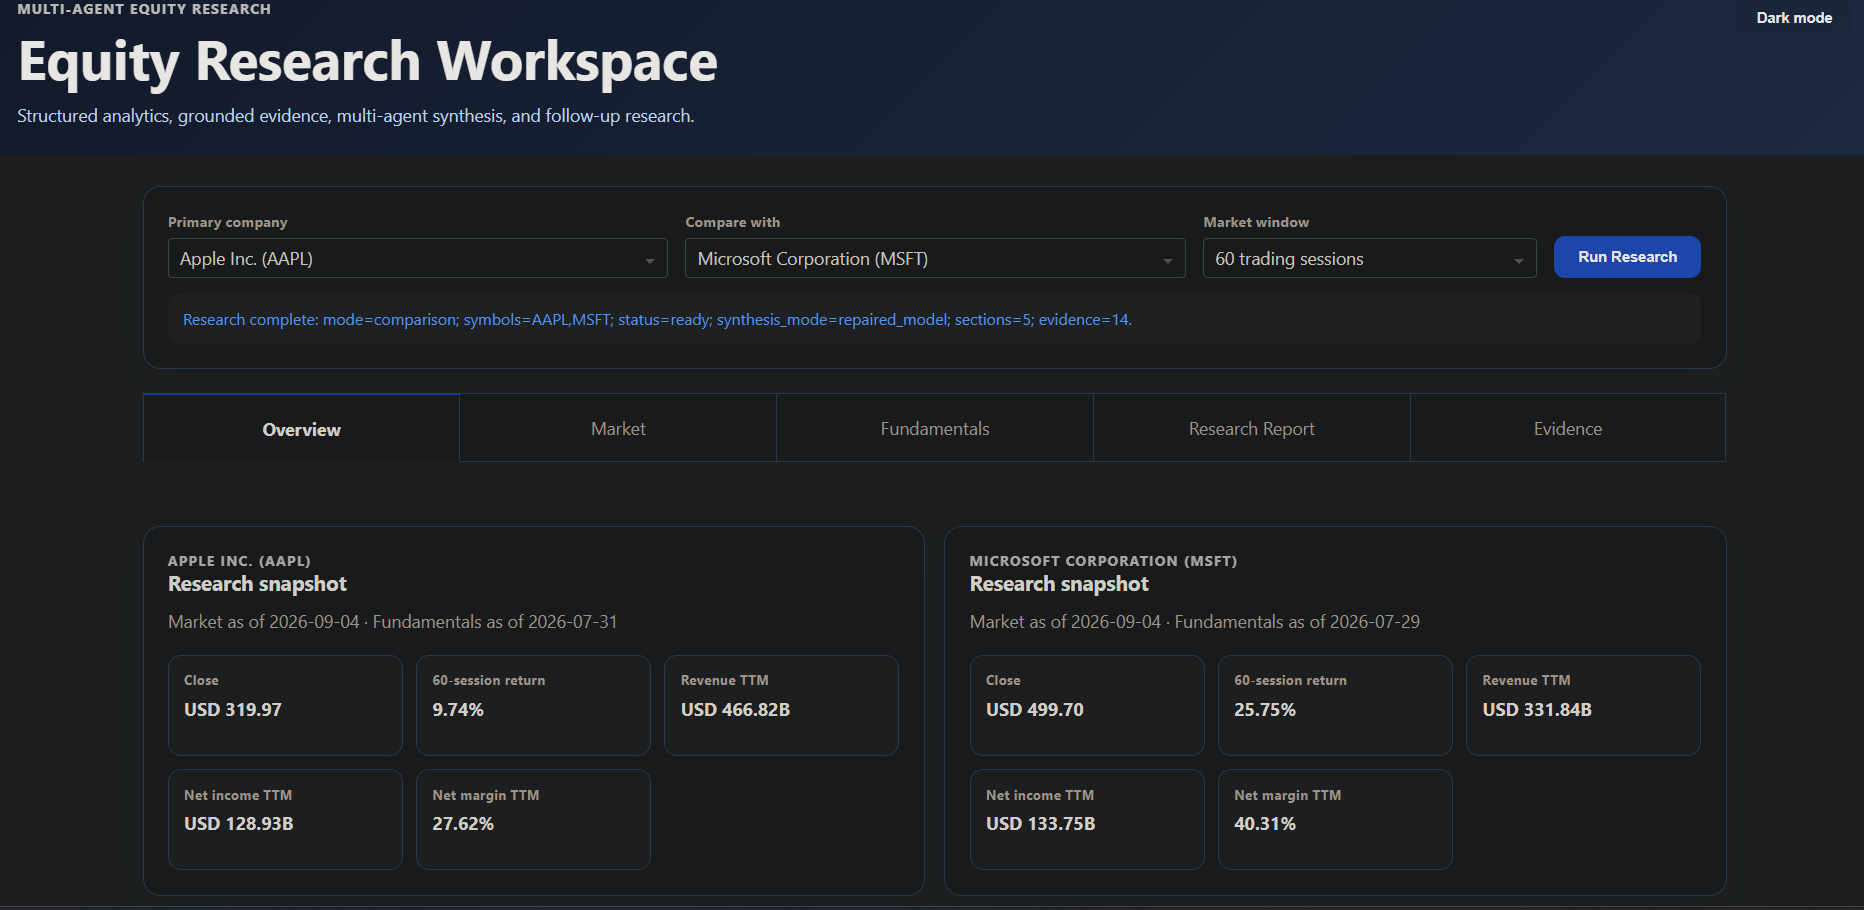
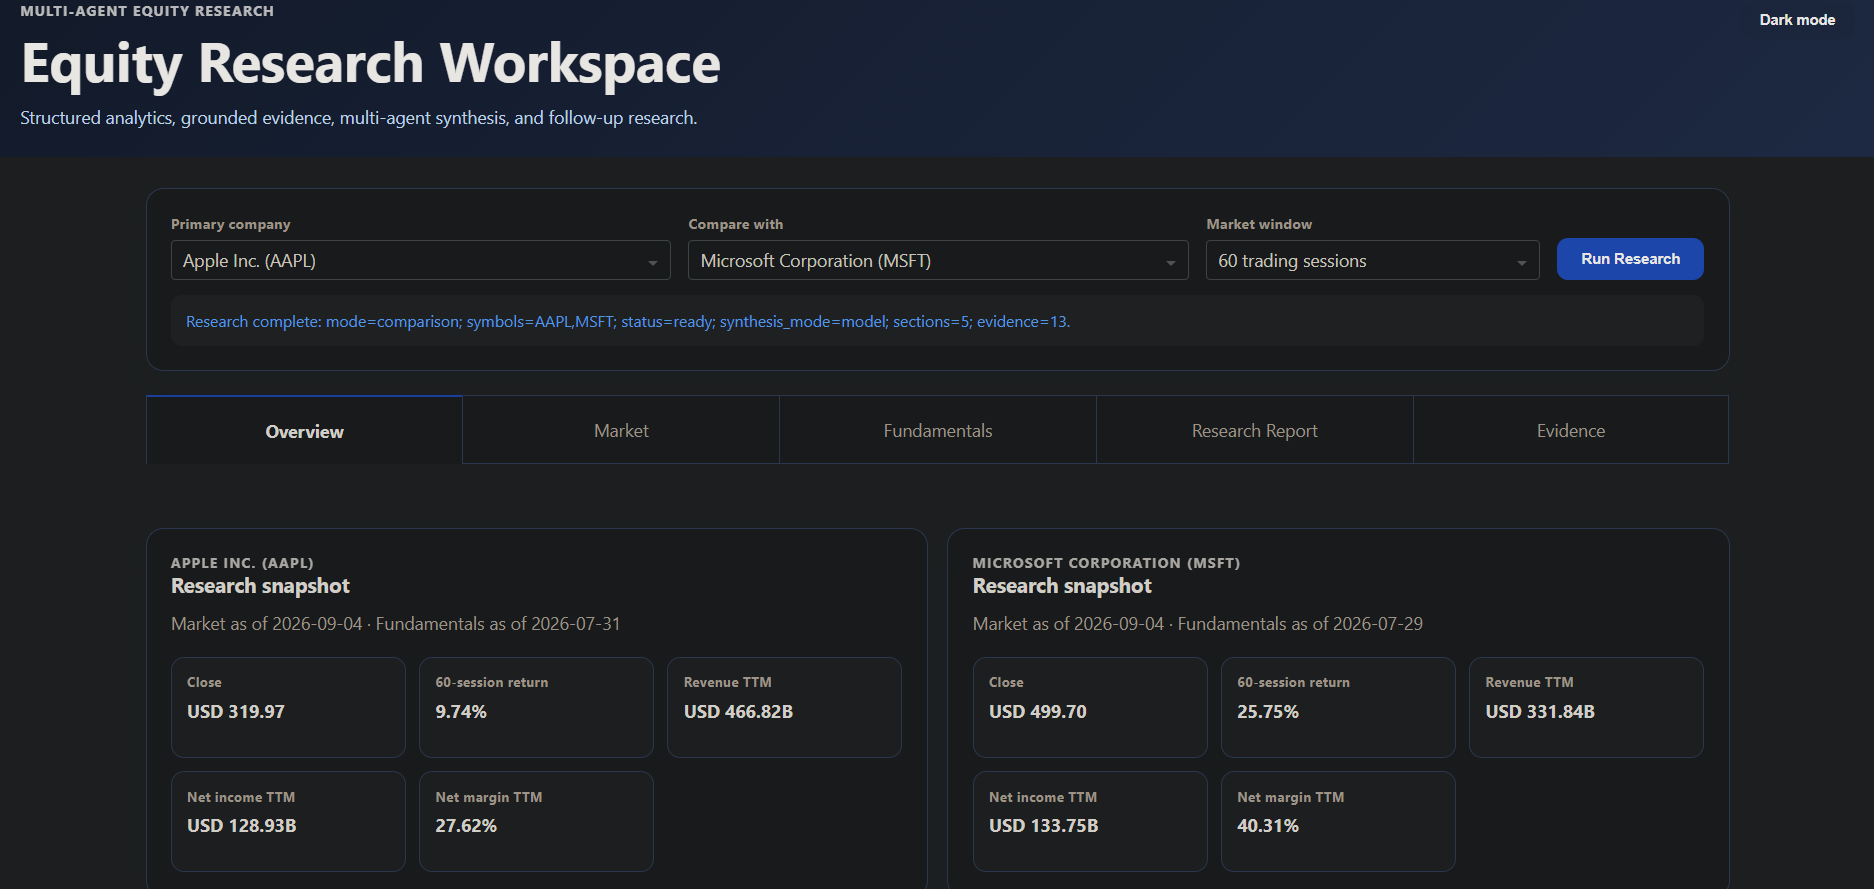
docs: refresh portfolio evidence and tracing

diff --git a/README.md b/README.md
@@ -27,22 +27,18 @@ The MVP:
 - Process data through Bronze, Silver, and Gold Delta tables.
 - Provide structured financial analytics plus Retrieval-Augmented Generation (RAG) over validated news and SEC filing evidence with citations.
 - Coordinate a Supervisor, Market Analyst, and Company Researcher with LangGraph.
-- Presents results in a private Databricks Dash workspace with normalized market charts, validated cited reports, publication-safe evidence provenance, session-bound grounded follow-up chat, and privacy-safe application telemetry.
+- Present results in a private Databricks Dash workspace with normalized market charts, validated cited reports, publication-safe evidence provenance, session-bound grounded follow-up chat, and privacy-safe application telemetry.
 
 The MVP will not include trading execution, price prediction, portfolio optimization, GDELT, cTrader, or live Alpaca MCP access.
 
 ## Current progress
 
-- **Bronze:** 4/4 MVP datasets implemented and live-verified.
-- **Silver:** 4/4 MVP datasets implemented and live-verified: `daily_prices`, `news_articles`, `company_facts`, and `filing_sections`.
-- **Gold:** 2/2 analytical metric tables implemented and live-verified: `market_metrics` and `fundamental_metrics`.
-- **Daily market/news refresh:** scheduled at 01:00 America/New_York Tuesday-Saturday, with incremental Bronze ingestion, Silver/Gold rebuilds, and an automated quality/freshness/lineage verification gate. The first real periodic scheduler run completed successfully end-to-end.
-- **Weekly SEC/fundamentals refresh:** scheduled at 02:00 America/New_York Sunday, with SEC company-facts and selected 10-K ingestion, Silver rebuilds, Gold fundamental metrics, and a final freshness/coverage/lineage verification gate. The full DAG is manually live-verified; the first periodic Sunday execution is pending.
-- **Milestone 1 — Data Engineering:** complete. Bronze, Silver, Gold, CI, scheduled refresh orchestration, quality/freshness/lineage gates, safe replay behavior, and controlled deployment verification are all implemented and verified. The deployment gate was executed from the CI-tested `main` commit `caa3dcb` and completed with a converged bundle plan plus a successful serverless Spark smoke test.
-- **Operational audit policy:** the MVP uses fail-before-publication validation rather than partial publication plus quarantine tables. Immutable Bronze provenance, validation diagnostics, deterministic replay, Databricks job history, and final verification gates provide the required operational evidence; dedicated row-level rejection tables are deferred until a mixed valid/invalid batch workflow requires them.
-- **Milestone 2 — AI Engineering:** complete. The deterministic RAG corpus, managed GTE embeddings/AI Search index, independent retrieval holdout, controlled Gold/retrieval tools, GPT OSS 20B Market Analyst and Company Researcher workers, deterministic LangGraph Supervisor, GPT OSS 120B terminal synthesis, report provenance validation, bounded repair/fallback, MLflow tracing, route-aware retrieval relevance/sufficiency, trace-aware narrative grounding, controlled E3-E6 failure/security evaluation, and the final E1/E2 managed regression baseline are implemented and live-verified. Pull-request CI now exposes a dedicated 107-test credential-free AI-evaluation gate plus the full 482-test repository suite; GitHub Actions run #25 passed both with Ruff clean on Python 3.14.7. Credentialed Databricks SQL, Vector Search, and model evaluations remain deliberately separate, bounded live checks.
-- **Milestone 3 — Application Delivery:** complete. The configuration-driven Dash workspace is deployed privately on Databricks Apps and live-verified for single-company and AAPL/MSFT comparison research. It renders controlled Gold metrics, normalized Silver price history, validated cited reports, publication-safe evidence cards, signed session-bound follow-up answers, fixed-category feedback, and bounded `APP_EVENT` telemetry. The final PR CI passed, the milestone was merged to `main` as `89bc3df`, and the exact merged snapshot was redeployed and live-smoke-tested successfully on 2026-09-07.
-- Detailed implementation evidence and run links are tracked in [PLAN.md](PLAN.md).
+- **Data engineering:** all four Bronze sources, four validated Silver datasets, and two analytical Gold tables are implemented and live-verified.
+- **Orchestration and quality:** daily market/news and weekly SEC/fundamentals workflows include incremental ingestion, deterministic transformations, freshness/coverage/lineage gates, and safe replay behavior.
+- **AI engineering:** the controlled RAG corpus and AI Search index, Gold/retrieval tools, two GPT OSS 20B workers, deterministic LangGraph Supervisor, GPT OSS 120B synthesis, citation validation, bounded repair, and deterministic fallback are implemented and live-verified.
+- **Evaluation and observability:** credential-free CI, controlled live E1–E6 evaluation, MLflow application traces, numerical fidelity, grounding, relevance, safety, and publication-boundary checks are in place.
+- **Application delivery:** the private Databricks Dash workspace is deployed and live-verified for single-company and AAPL/MSFT comparison research, signed grounded follow-up, fixed-category feedback, and bounded `APP_EVENT` telemetry.
+- Detailed implementation evidence, run identities, and remaining operational observations are tracked in [PLAN.md](PLAN.md).
 
 ## Portfolio preview
 
@@ -75,6 +71,14 @@ Company facts + SEC filings → Silver transformations → Gold fundamentals →
 ### Unity Catalog — real Bronze, Silver, Gold, and AI/RAG assets
 
 ![Databricks Catalog showing the implemented medallion and AI/RAG assets](docs/screenshots/06-databricks-catalog.png)
+
+### MLflow production tracing — live application requests
+
+Research and grounded follow-up requests from the deployed Databricks App create observable MLflow trace rows with bounded request, response, model, token, validation, and latency metadata.
+
+![MLflow production trace rows for live equity research and follow-up requests](docs/screenshots/10-mlflow-production-traces.png)
+
+The Free Edition deployment preserves these trace metadata rows, but its current workspace-backed trace storage does not expose the complete span payloads required by production scorers. Those scorers therefore remain paused at sample rate `0`; the controlled E1/E2 evaluation below remains the authoritative scored baseline.
 
 ### MLflow GenAI evaluation — final managed E1/E2 regression baseline
 

diff --git a/docs/screenshots/README.md b/docs/screenshots/README.md
@@ -179,19 +179,65 @@ workspace navigation, and other account details add little portfolio value and m
 cropped out. Keep the four screenshots at a consistent zoom/width so they read like a
 single paginated metric table.
 
-### 8. Optional scope-refusal evidence
+### 8. Automated daily market/news workflow
 
 Suggested filename:
 
-`08-followup-scope-refusal.png`
+`08-databricks-daily-refresh-workflow.png`
+
+Capture the Databricks workflow graph with the incremental Bronze price/news tasks,
+Silver transformations, Gold market metrics, and final verification gate visible.
+
+Why it matters:
+
+Shows that the market and news datasets are refreshed by an orchestrated production
+workflow rather than isolated notebooks.
+
+### 9. Automated weekly SEC/fundamentals workflow
+
+Suggested filename:
+
+`09-databricks-weekly-fundamentals-workflow.png`
+
+Capture the Databricks workflow graph with SEC company-facts and filing ingestion,
+Silver transformations, Gold fundamental metrics, and final verification gate visible.
+
+Why it matters:
+
+Shows the independently scheduled slower-moving fundamentals path and its validation
+boundary.
+
+### 10. MLflow production trace rows
+
+Suggested filename:
+
+`10-mlflow-production-traces.png`
+
+Capture live Databricks App research and grounded follow-up trace rows. Keep trace
+identity, trace name, model/token metadata, validation fields, and execution time
+legible. Use only controlled demo prompts and project-authored responses; do not expose
+credentials, provider text, unrestricted span payloads, or private account details.
+
+Why it matters:
+
+Proves that the deployed application emits operational MLflow trace metadata in
+addition to the separately scored E1/E2 evaluation baseline. The README must state the
+Free Edition limitation: trace rows are visible, but complete span payload persistence
+is unavailable and production scorers remain paused at sample rate `0`.
+
+### 11. Optional scope-refusal evidence
+
+Suggested filename:
+
+`11-followup-scope-refusal.png`
 
 Capture the verified out-of-active-context NVDA recommendation refusal.
 
-### 9. Optional application observability
+### 12. Optional application observability
 
 Suggested filename:
 
-`09-app-observability.png`
+`12-app-observability.png`
 
 Capture bounded `APP_EVENT` output showing research/follow-up/feedback lifecycle.
 
@@ -229,6 +275,7 @@ Do not add decorative annotations that obscure the application's actual behavior
 
 ## Final Markdown usage
 
-The main README should use only the strongest two or three images to keep the landing
-page concise. The remaining reviewed screenshots can be linked from a portfolio/demo
-section or this directory.
+Keep the product preview in the main README limited to the strongest two or three app
+images. A small curated platform-proof section may additionally show workflow, Catalog,
+tracing, and evaluation evidence. Link the remaining reviewed screenshots from the
+portfolio walkthrough or this directory rather than rendering every image inline.

diff --git a/docs/PORTFOLIO_DEMO.md b/docs/PORTFOLIO_DEMO.md
@@ -37,6 +37,9 @@ The committed publication-safe evidence set is available directly in the reposit
   [part 2](screenshots/07-mlflow-evaluation-2.png),
   [part 3](screenshots/07-mlflow-evaluation-3.png),
   [part 4](screenshots/07-mlflow-evaluation-4.png)
+- [Automated daily market/news workflow](screenshots/08-databricks-daily-refresh-workflow.png)
+- [Automated weekly SEC/fundamentals workflow](screenshots/09-databricks-weekly-fundamentals-workflow.png)
+- [Live MLflow production trace rows](screenshots/10-mlflow-production-traces.png)
 
 ## Suggested 3–4 minute walkthrough
 
@@ -83,14 +86,14 @@ In the private app select:
 
 Click **Run Research**.
 
-The final 2026-09-07 operations verification completed:
+The reviewed portfolio run completed:
 
 ```text
 mode=comparison
 symbols=AAPL,MSFT
 status=ready
 synthesis_mode=model
-evidence_count=14
+evidence_count=13
 ```
 
 This is a live controlled Databricks run, not a static mock.
@@ -176,6 +179,12 @@ The verified app refused to invent an NVDA recommendation because NVDA was not p
 of the active AAPL/MSFT evidence context.
 
 ### 2:50–3:30 — Evaluation and operations
+
+First show the live MLflow production-tracing screenshot. It demonstrates that deployed
+research and grounded follow-up requests create observable trace rows with bounded
+model, token, validation and latency metadata. In this Free Edition workspace the rows
+remain visible, while complete span payload persistence is unavailable; production
+scorers therefore remain paused at sample rate `0`.
 
 Show the reviewed four-part MLflow evaluation screenshot set for the final managed
 E1/E2 run `spiffy-rat-765` (run ID
